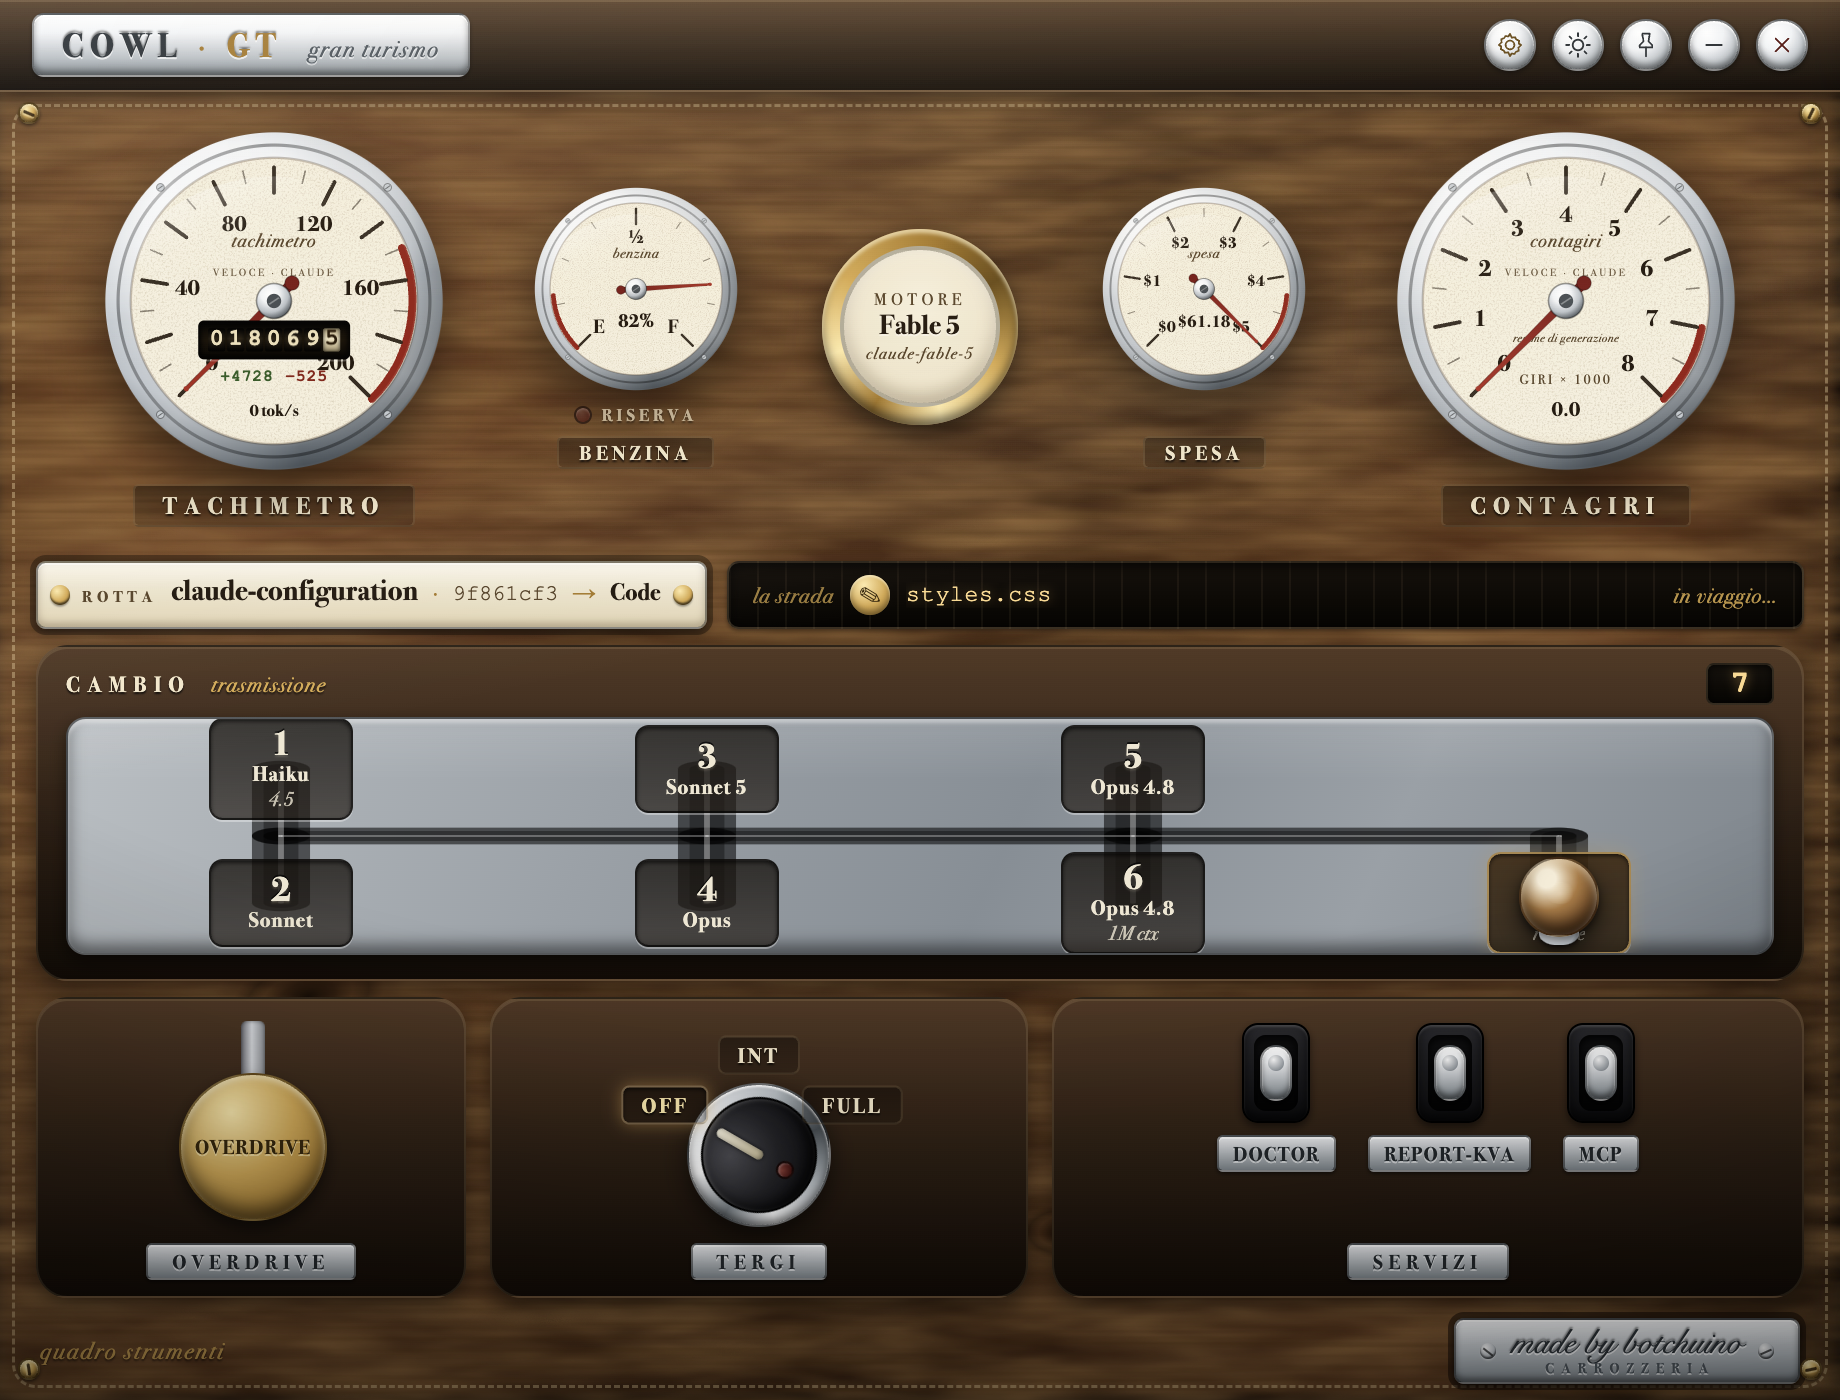
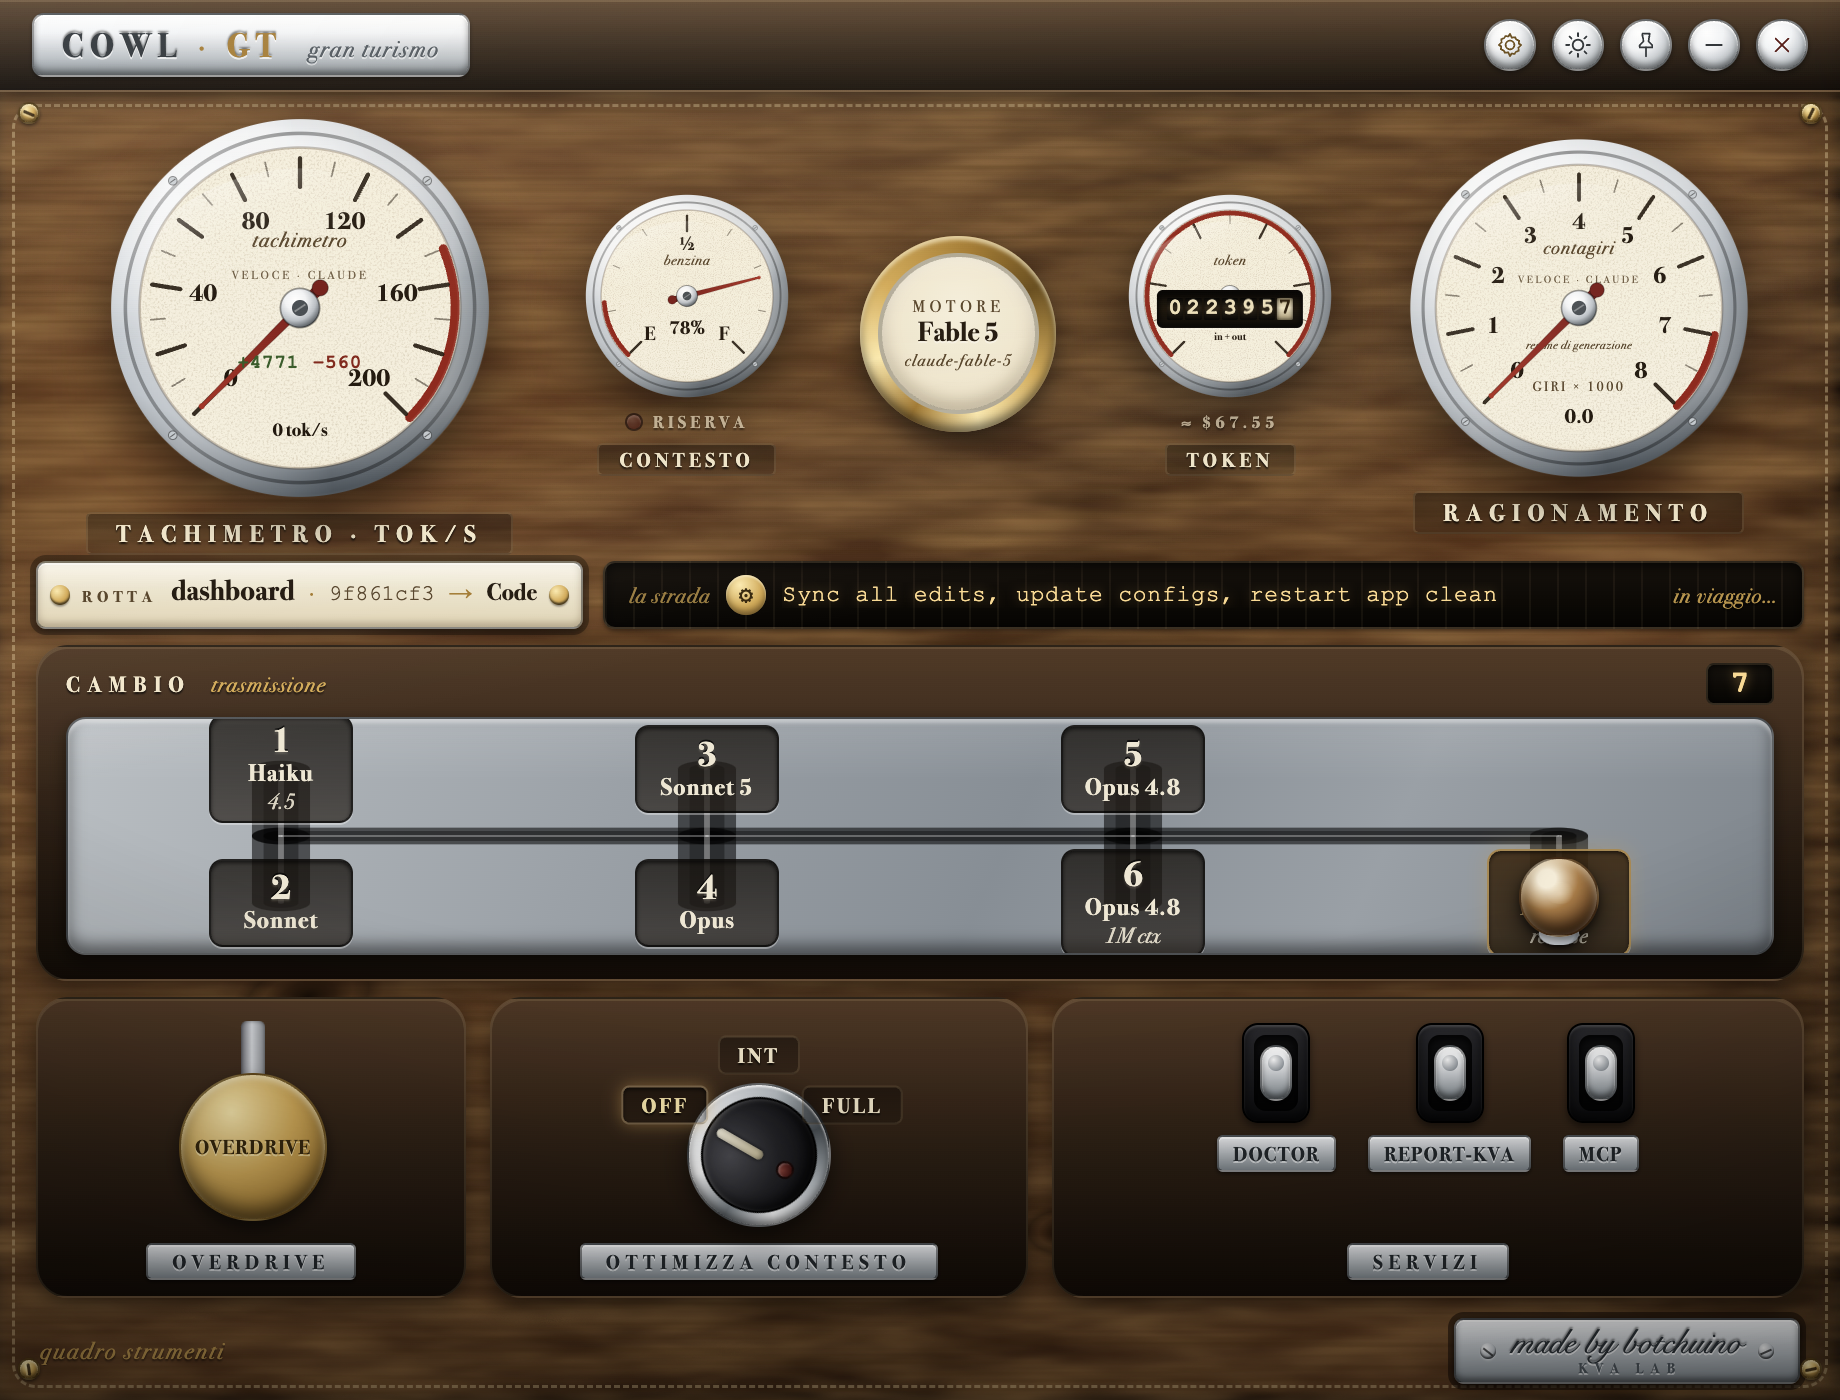
Explanatory gauge names, TOKEN roller counter, hero tachometer, KVA LAB plate
- BENZINA→CONTESTO, CONTAGIRI→RAGIONAMENTO, SPESA→TOKEN (roller counter
  moved from the tach face; session $ on the line beneath)
- TACHIMETRO · TOK/S is now the hero instrument (+12% dial size)
- Gear plate: satin nickel + engraved dark chips, larger labels
- Wiper bay: TERGI→OTTIMIZZA CONTESTO
- Fix: renderer.js contained literal NUL bytes (dedup key separator) —
  now \u0000 escapes, so the file is no longer treated as binary
- Fix: top-level 'const dash' clashed with the non-configurable
  contextBridge global in Electron (SyntaxError at load) — IIFE-wrapped

diff --git a/renderer/index.html b/renderer/index.html
@@ -114,30 +114,28 @@
     <!-- translucent wiper-sweep overlay, animated when the wiper fires -->
     <div id="wiper-sweep" class="wiper-sweep" aria-hidden="true"><span class="ws-blade"></span></div>
 
-    <!-- TACHIMETRO: tokens per second, with roller odometer + LoC trip -->
-    <div class="gauge-wrap gauge-wrap--big">
+    <!-- TACHIMETRO: tokens per second + LoC trip -->
+    <div class="gauge-wrap gauge-wrap--big gauge-wrap--tach">
       <div class="gauge gauge--big">
         <div id="gauge-tach" class="gauge-svg" role="img" aria-label="Tachimetro: tokens per second"></div>
-        <div id="odo-wheels" class="odo-wheels" aria-label="Token odometer: total tokens in and out"
-             title="Km percorsi — total tokens (in + out)"></div>
         <div id="trip-loc" class="trip-loc" aria-label="Trip counter: lines of code added and removed"
              title="Trip — lines of code added / removed">
           <span id="trip-add" class="trip-add">+0</span><span id="trip-del" class="trip-del">−0</span>
         </div>
       </div>
-      <div class="gauge-caption">TACHIMETRO</div>
+      <div class="gauge-caption">TACHIMETRO · TOK/S</div>
     </div>
 
-    <!-- BENZINA: context fuel (F = empty context) + RISERVA jewel -->
+    <!-- CONTESTO: context fuel (F = empty context) + RISERVA jewel -->
     <div class="gauge-wrap gauge-wrap--small">
       <div class="gauge gauge--small">
-        <div id="gauge-fuel" class="gauge-svg" role="img" aria-label="Benzina: free context remaining"></div>
+        <div id="gauge-fuel" class="gauge-svg" role="img" aria-label="Contesto: free context remaining"></div>
       </div>
       <div id="riserva" class="riserva" role="status" aria-label="Context reserve warning lamp">
         <span class="riserva-jewel" aria-hidden="true"></span>
         <span class="riserva-text">RISERVA</span>
       </div>
-      <div class="gauge-caption gauge-caption--small">BENZINA</div>
+      <div class="gauge-caption gauge-caption--small">CONTESTO</div>
     </div>
 
     <!-- centre maker's crest: current engine (model) -->
@@ -153,21 +151,24 @@
       </div>
     </div>
 
-    <!-- SPESA: session dollars -->
+    <!-- TOKEN: roller counter (total tokens in+out) with session $ beneath -->
     <div class="gauge-wrap gauge-wrap--small">
-      <div class="gauge gauge--small">
-        <div id="gauge-spend" class="gauge-svg" role="img" aria-label="Spesa: session spend gauge"></div>
+      <div class="gauge gauge--small gauge--counter">
+        <div id="gauge-spend" class="gauge-svg" role="img" aria-label="Token: total tokens counter"></div>
+        <div id="odo-wheels" class="odo-wheels" aria-label="Token odometer: total tokens in and out"
+             title="Km percorsi — total tokens (in + out)"></div>
       </div>
-      <div class="riserva riserva--spacer" aria-hidden="true"><span class="riserva-text">&nbsp;</span></div>
-      <div class="gauge-caption gauge-caption--small">SPESA</div>
+      <div id="spend-line" class="riserva riserva--spend" role="status" aria-label="Session spend"
+           title="Session spend"><span class="riserva-text">≈ $0</span></div>
+      <div class="gauge-caption gauge-caption--small">TOKEN</div>
     </div>
 
-    <!-- CONTAGIRI: sustained generation intensity -->
+    <!-- RAGIONAMENTO: sustained generation intensity -->
     <div class="gauge-wrap gauge-wrap--big">
       <div class="gauge gauge--big">
-        <div id="gauge-rpm" class="gauge-svg" role="img" aria-label="Contagiri: sustained generation intensity"></div>
+        <div id="gauge-rpm" class="gauge-svg" role="img" aria-label="Ragionamento: sustained generation intensity"></div>
       </div>
-      <div class="gauge-caption">CONTAGIRI</div>
+      <div class="gauge-caption">RAGIONAMENTO</div>
     </div>
   </section>
 
@@ -231,7 +232,7 @@
           </span>
         </div>
       </div>
-      <div id="wiper-plate" class="bay-plate">TERGI</div>
+      <div id="wiper-plate" class="bay-plate">OTTIMIZZA CONTESTO</div>
     </div>
 
     <div class="switch-bank" aria-label="Skill switches">
@@ -247,7 +248,7 @@
       <span class="ap-screw ap-screw--l" aria-hidden="true"></span>
       <span class="ap-text">
         <span class="ap-script">made by botchuino</span>
-        <span class="ap-sub">CARROZZERIA</span>
+        <span class="ap-sub">KVA LAB</span>
       </span>
       <span class="ap-screw ap-screw--r" aria-hidden="true"></span>
     </div>

diff --git a/renderer/styles.css b/renderer/styles.css
@@ -358,6 +358,8 @@ html, body {
 }
 .gauge--big   { width: var(--gauge-big);   height: var(--gauge-big); }
 .gauge--small { width: var(--gauge-small); height: var(--gauge-small); }
+/* the TACHIMETRO is the hero instrument — slightly larger than the other big dial */
+.gauge-wrap--tach .gauge--big { width: calc(var(--gauge-big) * 1.12); height: calc(var(--gauge-big) * 1.12); }
 .gauge-svg { position: absolute; inset: 0; }
 .gauge-svg svg { width: 100%; height: 100%; display: block; }
 
@@ -404,9 +406,9 @@ html, body {
   padding: 2px 10px 1px;
 }
 
-/* ---- roller odometer, set into the tachimetro face ---- */
+/* ---- roller odometer, set into the TOKEN counter face ---- */
 .odo-wheels {
-  position: absolute; left: 50%; top: 61%;
+  position: absolute; left: 50%; top: 56%;
   transform: translate(-50%, -50%);
   display: flex; gap: 1px;
   padding: 3px 4px;
@@ -414,7 +416,7 @@ html, body {
   background: linear-gradient(180deg, #060402, #1a1207 50%, #060402);
   border: 1px solid rgba(0,0,0,0.75);
   box-shadow: inset 0 2px 3px rgba(0,0,0,0.9), inset 0 -1px 2px rgba(0,0,0,0.7), 0 1px 0 rgba(255,255,255,0.25);
-  font-size: max(9px, calc(var(--gauge-big) * 0.066));
+  font-size: max(9px, calc(var(--gauge-small) * 0.105));
   line-height: 1;
   z-index: 2;
   pointer-events: auto;
@@ -437,13 +439,13 @@ html, body {
 .odo-strip { display: block; transition: transform .55s cubic-bezier(.25,.7,.2,1); will-change: transform; }
 .odo-strip > span { display: block; height: 1em; }
 
-/* ---- trip counter: lines of code, beneath the odometer ---- */
+/* ---- trip counter: lines of code, set into the tachimetro face ---- */
 .trip-loc {
-  position: absolute; left: 50%; top: 71.5%;
+  position: absolute; left: 50%; top: 64%;
   transform: translate(-50%, -50%);
   display: flex; gap: 0.7em;
   font-family: var(--font-mech); font-weight: 700;
-  font-size: max(8px, calc(var(--gauge-big) * 0.047));
+  font-size: max(9px, calc(var(--gauge-big) * 0.055));
   letter-spacing: 0.4px;
   z-index: 2;
   white-space: nowrap;
@@ -755,13 +757,13 @@ html, body {
   text-shadow: 0 -1px 0 rgba(0,0,0,0.7), 0 1px 1px rgba(255,240,210,0.15);
 }
 .gearpos .gp-label {
-  font-size: 10.5px; letter-spacing: 0.04em; font-weight: 700;
-  max-width: 72px; overflow: hidden; text-overflow: ellipsis; white-space: nowrap;
+  font-size: 12px; letter-spacing: 0.04em; font-weight: 700;
+  max-width: 84px; overflow: hidden; text-overflow: ellipsis; white-space: nowrap;
 }
 .gearpos .gp-sub {
   font-family: var(--font-italic); font-style: italic;
-  font-size: 10px; opacity: 0.8;
-  max-width: 72px; overflow: hidden; text-overflow: ellipsis; white-space: nowrap;
+  font-size: 11px; opacity: 0.9;
+  max-width: 84px; overflow: hidden; text-overflow: ellipsis; white-space: nowrap;
 }
 .gearpos.reverse .gp-num { color: #e08a76; }
 .gearpos.engaged {

diff --git a/renderer/renderer.js b/renderer/renderer.js
@@ -257,12 +257,16 @@ const gaugeFuel = buildGauge($('#gauge-fuel'), {
   valY: G.cy + 40, valSize: 20, initialText: '100%',
   numFor: (f) => (f === 0 ? 'E' : f === 1 ? 'F' : '½'),
 });
+/* TOKEN counter: same enamel face for visual coherence, but it's a counter,
+   not a dial — the needle is hidden and the roller odometer (moved here from
+   the tach) shows total tokens; session $ lives on the line beneath. */
 const gaugeSpend = buildGauge($('#gauge-spend'), {
-  id: 'gs', majors: 10, minorGroup: 2, labelEvery: 2, numSize: 17,
-  redFrom: 0.85, faceLabel: 'spesa', faceLabelY: G.cy - 32, faceLabelSize: 15,
-  valY: G.cy + 40, valSize: 18, initialText: '$0.00',
-  numFor: (f) => '$' + Math.round(f * SPEND_MAX),
+  id: 'gs', majors: 10, minorGroup: 2, labelEvery: 0, numSize: 17,
+  faceLabel: 'token', faceLabelY: G.cy - 32, faceLabelSize: 15,
+  valY: G.cy + 46, valSize: 11, initialText: 'in + out',
+  numFor: () => '',
 });
+if (gaugeSpend.needle) gaugeSpend.needle.setAttribute('display', 'none');
 
 /* =====================================================================
    1b. ROLLER ODOMETER (km percorsi = tokensIn + tokensOut)
@@ -431,10 +435,11 @@ function applyState(state) {
   if (gaugeFuel.valText) gaugeFuel.valText.textContent = `${Math.round(free)}%`;
   setRiserva(free);
 
-  // SPESA (exact dollars, as before)
+  // TOKEN counter face is driven by the roller odometer (see updateOdometer);
+  // session $ goes on the small line beneath the counter.
   const cost = Math.max(0, Number(state.costUsd) || 0);
-  pointGauge(gaugeSpend, cost / SPEND_MAX);
-  if (gaugeSpend.valText) gaugeSpend.valText.textContent = '$' + cost.toFixed(cost >= 100 ? 0 : 2);
+  const spendLine = $('#spend-line .riserva-text');
+  if (spendLine) spendLine.textContent = '≈ $' + cost.toFixed(cost >= 100 ? 0 : 2);
 
   // model crest
   const nameEl = $('#model-name'), subEl = $('#model-sub');
@@ -526,7 +531,7 @@ function applyActivity(activity) {
 
   const tool = String(activity.tool || '');
   const detail = String(activity.detail || '');
-  const key = tool + '' + detail + '' + at;
+  const key = tool + '\u0000' + detail + '\u0000' + at;
   strip.classList.add('fresh');
   glyphEl.textContent = glyphForTool(tool);
   detailEl.textContent = detail || tool || '—';

diff --git a/README.md b/README.md
@@ -27,7 +27,8 @@ terminal. Built for Claude Code today; other engines later (see
       └──────────────────────────────────────────────────┘
 ```
 
-![COWL_GT dashboard](docs/screenshot.png)
+> **Screenshot placeholder** — drop a real screenshot here:
+> `![COWL_GT dashboard](docs/screenshot.png)`
 
 **macOS only.** Made by botchuino.
 